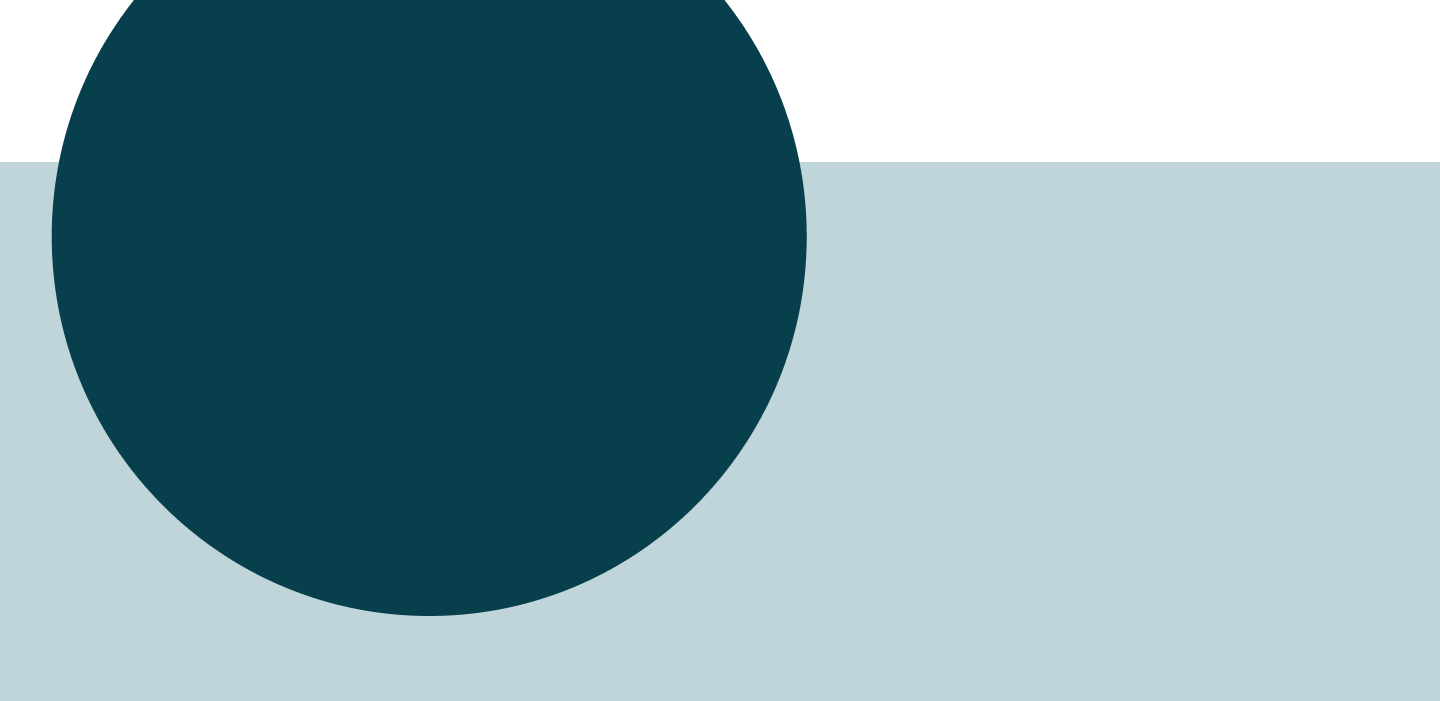
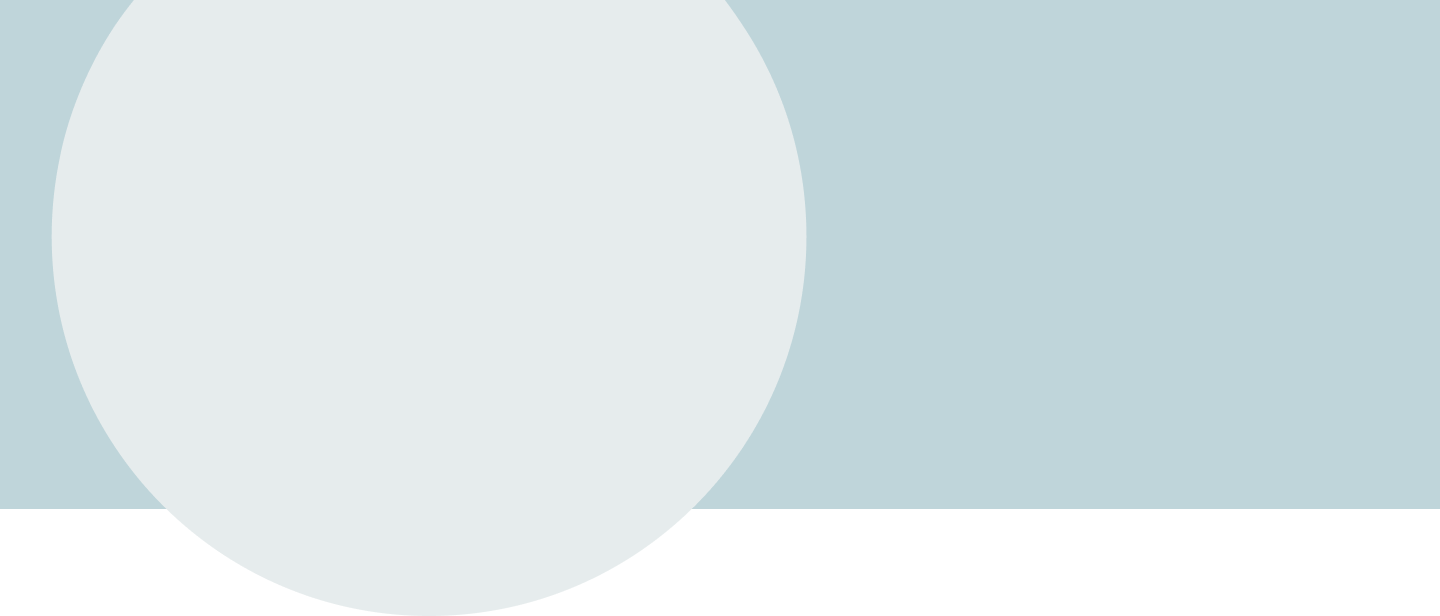
media query help

diff --git a/css/style.css b/css/style.css
@@ -43,23 +43,23 @@ body {
 
 .container {
   background-image: url("../img/heroshapes.png");
-  background-size: contain;
+  background-size: 100%;
   background-repeat: no-repeat;
   font-family: 'Raleway';
   height: 100vh;
   margin: auto;
-  width: 100%;
+  width: 1000px;
 }
 
 
 .container2{
-  background-image: url("../img/halfcircle.png");
+  /*background-image: url("../img/backgroundabout.png");
   background-repeat: no-repeat;
   /*background-position: 6.5% 0%;*/
   font-family: 'Raleway';
   height: 100vh;
   margin: 0 auto;
-  width: auto;
+  width: 1440px;
 }
 
 
@@ -70,7 +70,7 @@ body {
   background-repeat: no-repeat;
   background-size: cover;
   display: flex;
-  width: auto;
+  width: 1440px;
 }
 
 
@@ -83,6 +83,9 @@ body {
   /*background-position: 15% 0%;*/
 }
 
+.cdlogo{
+  padding-right: 2%;
+}
 
 .landinglogo {
   flex: 1;
@@ -115,11 +118,9 @@ body {
 /**********************HERO************************/
 /* HERO HOMEPAGE*/
 .hero{
-  color: #FDEACE;
+  color: #07404C;
   display: flex;
   width: 100%;
-
-
 }
 
 .heroleft {
@@ -148,7 +149,7 @@ img.headshot {
 
 .heroleft-about{
   flex: 1;
-  padding-left: 8%;
+  padding-left: 14%;
 }
 
 .heroright-about{
@@ -362,8 +363,7 @@ img.ccfpreview{
 /*************************** ABOUT*************************/
 
 .abouttext{
-  padding-bottom: 10%;
-  padding-top: 1%;
+  padding-bottom: 12%;
 }
 
 .lastp{
@@ -693,8 +693,12 @@ ul{
 
 /***************************  FOOTER ***************************************/
 
+.footerline{
+  background-color: #07404C;
+  height: 3px;
+}
+
 .footer{
-  background-color: #BFD5DA;
   color: #07404C;
   display:flex;
   width: 100%;
@@ -704,6 +708,7 @@ ul{
   flex: 1;
   margin-top: 2%;
   margin-left: 1%;
+  margin-bottom: 1%;
 }
 
 
@@ -744,31 +749,48 @@ img.insta{
 
 /*************************** MEDIA QUERIES *************************/
 
-/*
-@media screen and (max-width: 1440px){
+
+@media screen and (min-width: 440px) {
+
+
 .container {
-  background-image: url("../img/heroshapes.png");
-  background-size: contain;
-  background-repeat: no-repeat;
-  font-family: 'Raleway';
-  height: 100vh;
-  margin: 0 auto;
-  width: 100%;
+  width: 440px;
+}
+
+.landinglogo {
+      width: 95%;
+}
+
+.logo {
+       width: 95%;
+}
+
+.navbar {
+  top: 0;
+  text-decoration: none;
+}
+
+
+}
+
+@media screen and (min-width: 991px){
+.container{
+  width: 991px;
 }
 }
 
 
-
-@media screen and (min-width: 768px){
-  .container {
-    width: 70rem;
+@media screen and (min-width: 1199px){
+  .containter{
+    width: 1199px;
   }
+
 }
 */
-/*
-@media screen and (min-width: 1025px){
-  .container {
-  background-size:cover;
 
+@media screen and (min-width: 1440px){
+  .containter{
+    width: 1440px;
   }
+
 }

diff --git a/project.html b/project.html
@@ -9,12 +9,13 @@
     <link href="https://fonts.googleapis.com/css2?family=Raleway:wght@400;700&display=swap" rel="stylesheet">
   </head>
   <body>
-    <div class="container2">
+    <div class="container">
 
         <!--- NAV BAR -->
         <div class="header-other">
           <section class="landinglogo">
-          <a href="index.html"><img src="img/landinglogo.png"></a>
+            <a href="index.html"><img src="img/cdlogo.png" class="cdlogo"></a>
+            <a href="index.html"><img src="img/landinglogo.png"></a>
           </section>
           <section class="navigationbar">
             <ul class="navbar">
@@ -391,6 +392,8 @@
           </section>
 
           <!--- footer -->
+          <section class="footerline">
+          </section>
           <div class="footer">
             <section class="footertext">
             <p class="footertext">Designed and developed by Chelsea Doherty © 2020</p>

diff --git a/index.html b/index.html
@@ -14,7 +14,8 @@
       <!--- NAV BAR -->
       <div class="header-homepage">
         <section class="landinglogo">
-        <a href="index.html"><img src="img/landinglogo.png"></a>
+          <a href="index.html"><img src="img/cdlogo.png" class="cdlogo"></a>
+          <a href="index.html"><img src="img/landinglogo.png"></a>
         </section>
         <section class="navigationbar">
           <ul class="navbar">
@@ -70,6 +71,8 @@
       </div>
 
       <!--- footer -->
+      <section class="footerline">
+      </section>
       <div class="footer">
         <section class="footertext">
         <p class="footertext">Designed and developed by Chelsea Doherty © 2020</p>
@@ -81,6 +84,7 @@
           <li class="social"><a href="email"><img class="mail" src="img/mail.png"></a>
         </ul>
       </div>
+  
 
 
     </div>

diff --git a/about.html b/about.html
@@ -14,7 +14,8 @@
       <!--- NAV BAR -->
       <div class="header-other">
         <section class="landinglogo">
-        <a href="index.html"><img src="img/landinglogo.png"></a>
+          <a href="index.html"><img src="img/cdlogo.png" class="cdlogo"></a>
+          <a href="index.html"><img src="img/landinglogo.png"></a>
         </section>
         <section class="navigationbar">
           <ul class="navbar">
@@ -54,6 +55,8 @@
       </section>
 
       <!--- footer -->
+      <section class="footerline">
+      </section>
       <div class="footer">
         <section class="footertext">
         <p class="footertext">Designed and developed by Chelsea Doherty © 2020</p>
